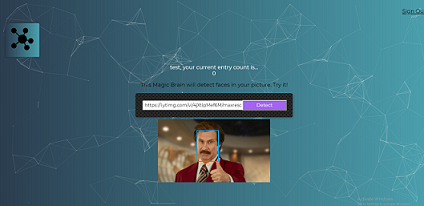
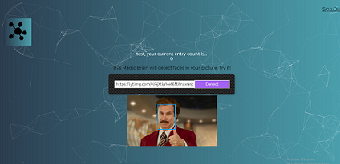
added gatsby images for optimization

diff --git a/src/components/Home/Projects.js b/src/components/Home/Projects.js
@@ -1,26 +1,86 @@
 import React from 'react'
 import Title from '../Title'
 import styles from "../../css/projects.module.css"
-import projects from '../../constants/projects'
+import { graphql, useStaticQuery } from "gatsby"
+import Img from "gatsby-image"
+import styled from "styled-components"
 
+const getImages = graphql`
+query Images {
+    face: file(relativePath:{eq:"scfacer29.png"}){
+      childImageSharp{
+        fluid {
+          ...GatsbyImageSharpFluid
+        }
+      }
+    }
+    books: file(relativePath:{eq:"scbooks29.png"}){
+      childImageSharp{
+        fluid {
+          ...GatsbyImageSharpFluid
+        }
+      }
+    }
+    friends: file(relativePath:{eq:"scfriends29.png"}){
+      childImageSharp{
+        fluid {
+          ...GatsbyImageSharpFluid
+        }
+      }
+    }
+    poke: file(relativePath:{eq:"scpoke29.png"}){
+      childImageSharp{
+        fluid {
+          ...GatsbyImageSharpFluid
+        }
+      }
+    }
+  }
+`
 const Projects = () => {
+  const data = useStaticQuery(getImages);
+  console.log(data);
   return (
-    <section className={styles.projects}>
+    <Wrapper className={styles.projects}>
       <Title title="Projects" />
       <div className={styles.center}>
-        {
-          projects.map((item, index)=> {
-            return <article key={index} className={styles.project}>
-            <a href={item.link}>
-            <span>{item.image}</span></a>
-            <h4>{ item.title}</h4>
-            <p>{item.text}</p>
-            </article>
-          })
-        }
+        <article className={styles.project}>
+            <a href="https://facer29.netlify.com/">
+            <Img fluid={data.face.childImageSharp.fluid} alt="Face Recognition App" /></a>
+            <h4>"Face Recognition App"</h4>
+            <p>"Built a web Application that detects and identifies images that you upload from the web using machine learning and neural networks with the help of clarifai's API."</p>
+        </article>
+        <article className={styles.project}>
+            <a href="https://books29.netlify.com/">
+            <Img fluid={data.books.childImageSharp.fluid} alt="Face Recognition App" /></a>
+            <h4>My Books</h4>
+            <p>Built a responsive web application that allows users to select and categorize books into a virtual bookshelf. Leveraged React to support a dynamic user interface that interacts with an API server and client library.</p>
+        </article>
+        <article className={styles.project}>
+            <a href="https://friends29.netlify.com/">
+            <Img fluid={data.friends.childImageSharp.fluid} alt="Face Recognition App" /></a>
+            <h4>Robo Friends</h4>
+            <p>Single Page Application using React that searches your robot friends asyncronously. Leveraged React for dynamic state management.</p>
+        </article>
+        <article className={styles.project}>
+            <a href="https://poke29.netlify.com/">
+            <Img fluid={data.poke.childImageSharp.fluid} alt="Face Recognition App" /></a>
+            <h4>"Face Recognition App"</h4>
+            <p>"Built a web Application that detects and identifies images that you upload from the web using machine learning and neural networks with the help of clarifai's API."</p>
+        </article>
       </div>
-    </section>
+      
+    </Wrapper>
   )
 }
+
+const Wrapper = styled.div`
+  text-align: center;
+  width: 80vw;
+  margin: 0 auto 10rem auto;
+  article {
+    border: 3px solid #696969;
+  }
+`
 
 export default Projects

diff --git a/src/constants/projects.js b/src/constants/projects.js
@@ -1,17 +1,15 @@
 import React from "react"
-import P1 from "../images/scfacer29.png"
-import P2 from "../images/scbooks29.png"
-import P3 from "../images/scfriends29.png"
-import P4 from "../images/scpoke29.png"
 import { graphql, useStaticQuery } from "gatsby"
-import styled from "styled-components"
 import img from "../images/scbooks29.png"
 import Img from "gatsby-image"
 
+const data = useStaticQuery(getImages);
+
 export default [
+  
   {
     link: "https://facer29.netlify.com/",
-    image: <img src={P1} alt="Face Recognition App" />,
+    image: <Img fluid={data.fluid.childImageSharp} alt="Face Recognition App" />,
     title: "Face Recognition App",
     text: "Built a web Application that detects and identifies images that you upload from the web using machine learning and neural networks with the help of clarifai's API."
   },
@@ -23,13 +21,13 @@ export default [
   },
   {
     link: "https://friends29.netlify.com/",
-    image: <img src={P3} alt="My Friends" />,
+    image: <Img fixed={data.fluid.childImageSharp} alt="My Friends" />,
     title: "My Friends",
     text: "Single Page Application using React that searches your robot friends asyncronously. Leveraged React for dynamic state management."
   },
   {
     link: "https://pokebattle29.netlify.com/",
-    image: <img src={P4} alt="Poke Cards" />,
+    image: <Img fixed={data.fluid.childImageSharp} alt="Poke Cards" />,
     title: "Poke Cards",
     text: "Single Page Application using React that deals 5 random pokemon cards to you and opponent. Winner is detrmined by the total experience of Pokemons"
   }

diff --git a/src/css/projects.module.css b/src/css/projects.module.css
@@ -3,10 +3,10 @@
   padding: 4rem 0;
 }
 .center {
-  width: 80vw;
+  width: 70vw;
   margin: 0 auto;
   display: grid;
-  grid-template-columns: repeat(auto-fit, minmax(600px, 1fr));
+  grid-template-columns: repeat(auto-fit, minmax(360px, 1fr));
   grid-column-gap: 2rem;
 }
 .project {

diff --git a/src/constants/images.js b/src/constants/images.js
@@ -4,10 +4,13 @@ import styled from "styled-components"
 import img from "../images/scbooks29.png"
 import Img from "gatsby-image"
 
+
+
 const images = () => {
+  const data = useStaticQuery(getImages);
   return (
     <Wrapper>
-      
+
     </Wrapper>
   )
 }
